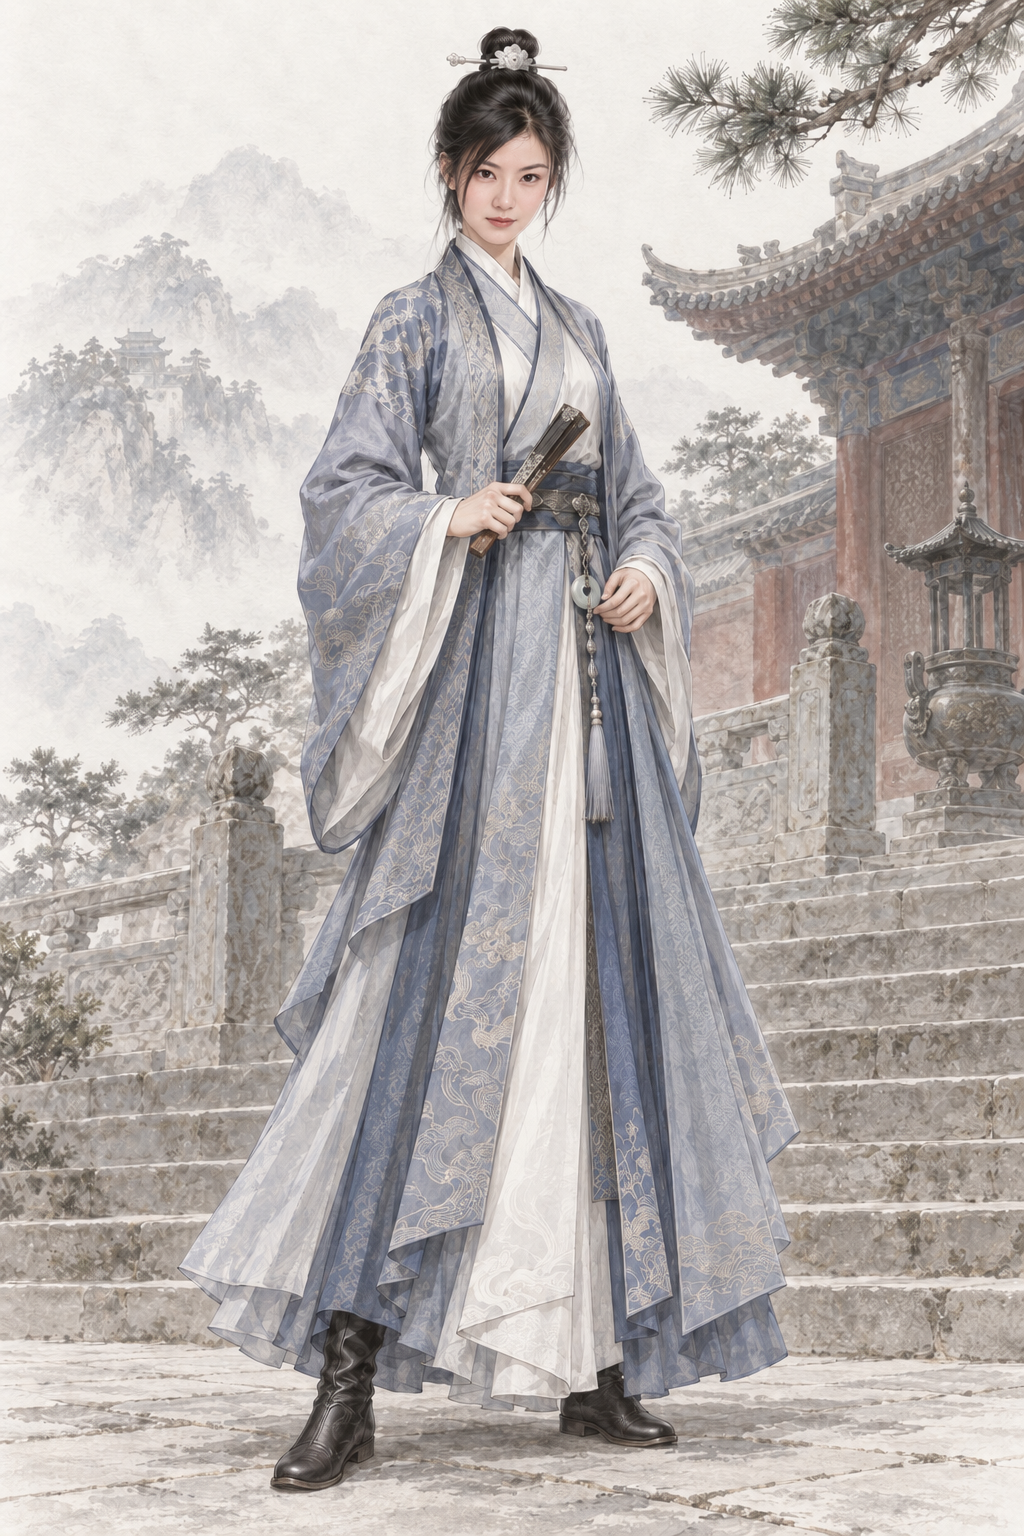
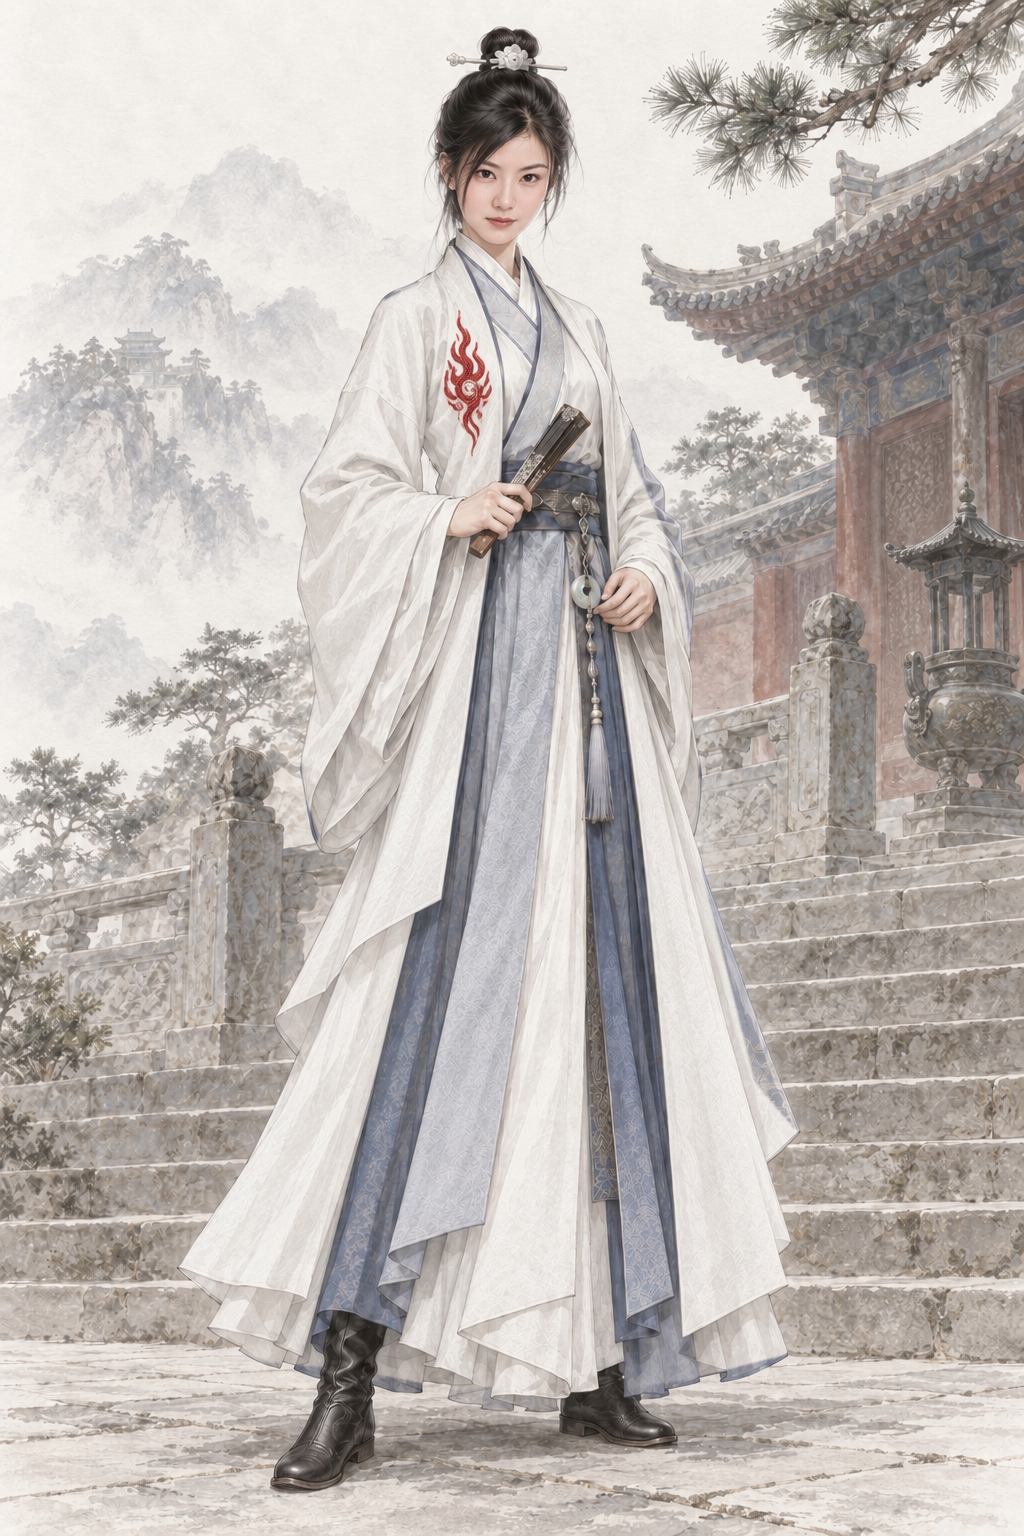
assets: AR-82 原著核对返修 赵敏武当改白袍绣血红火焰
原著摘句已同步提示词；已打开验图；蒙版外0像素变化。

Executed-By: Codex gpt-6.1-sol（AR-82）

diff --git a/assets/default/prompts/characters/ch04-yitian/npc_zhaomin__scene_wudang.md b/assets/default/prompts/characters/ch04-yitian/npc_zhaomin__scene_wudang.md
@@ -106,3 +106,8 @@ Create a premium REALISTIC Chinese wuxia character illustration with a delicate 
 - 采用作者授权宽松自查；偏差如实记录，candidate不代表approved。
 - 源PNG通常为1024×1536 RGB；其他原生2:3尺寸如实登记，原字节保存，不裁切、重编码、放大或去除溯源。
 - 完整请求、实际参考哈希及旧版本备份见 `.agents/coord/portrait-generation/realism-20261001/por_npc_zhaomin__ch04_youth_scene_wudang.prepared.json`。
+
+## 原著依据
+
+- 《倚天屠龙记》二十四 太极初传柔克刚：“一身白袍，袍上绣着个血红的火焰”；https://www.xuges.com/wuxia/jinyong/yttlj/176.htm
+- AR-82 返修约束（本节优先于历史提示词）：只把灰蓝花纹锦袍换为白色男装长袍，袍上胸前明显绣一个血红色火焰标记（刺绣、非真实燃烧）。保留原束发男冠、脸、折扇、手、体型、袍服衣褶、鞋与背景原样。
